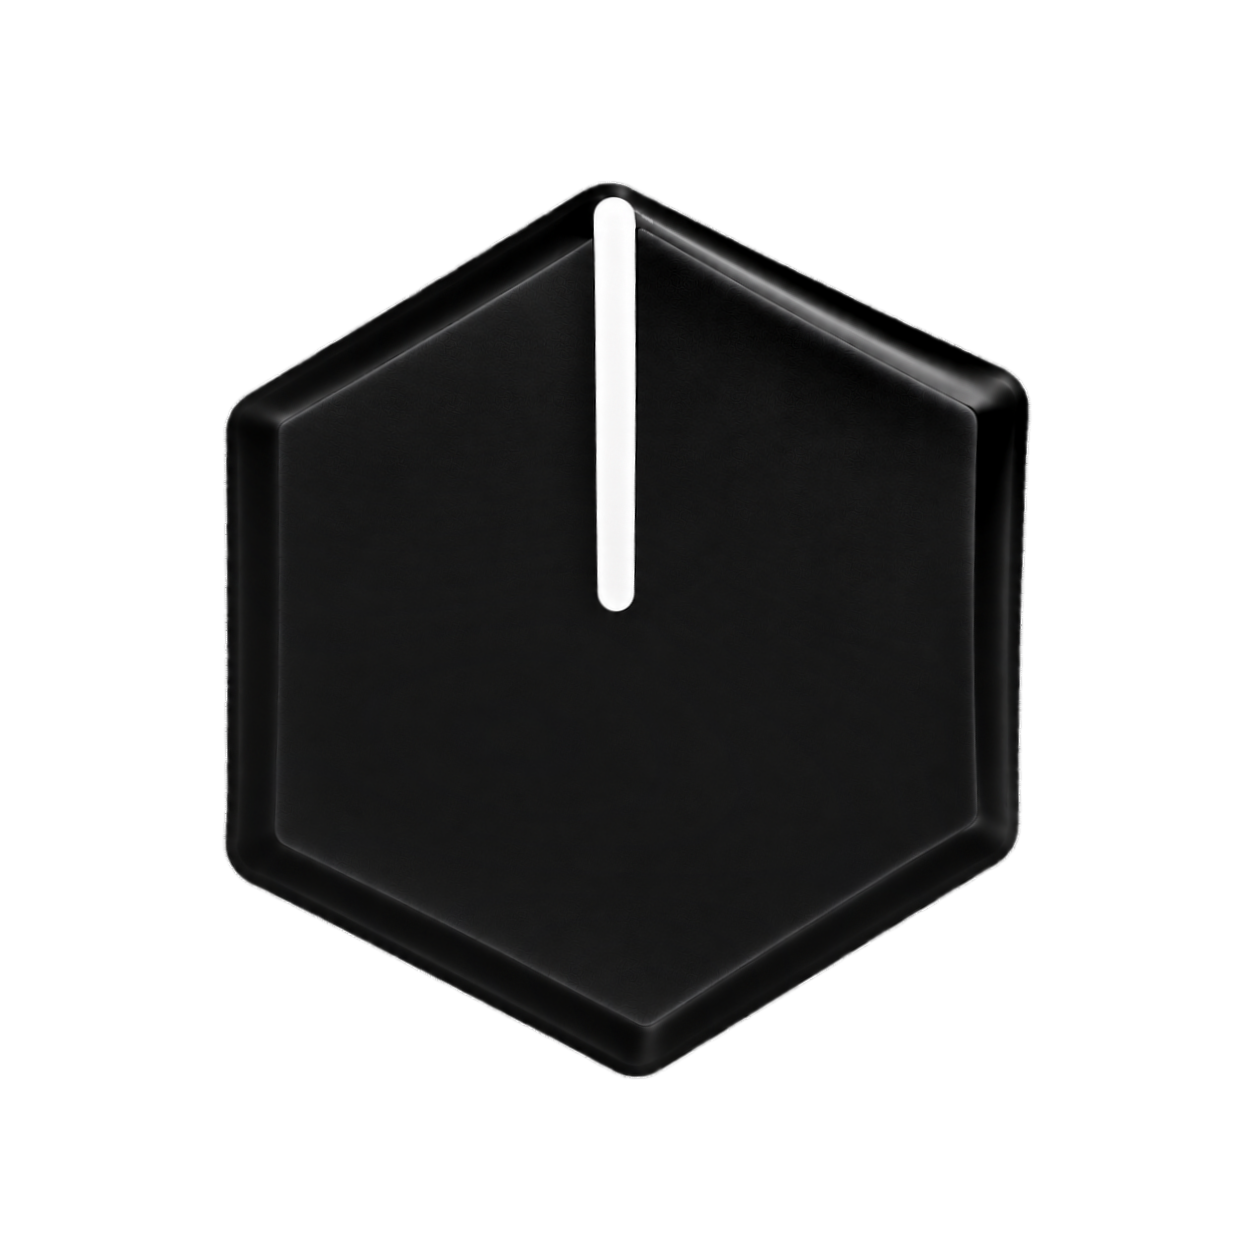
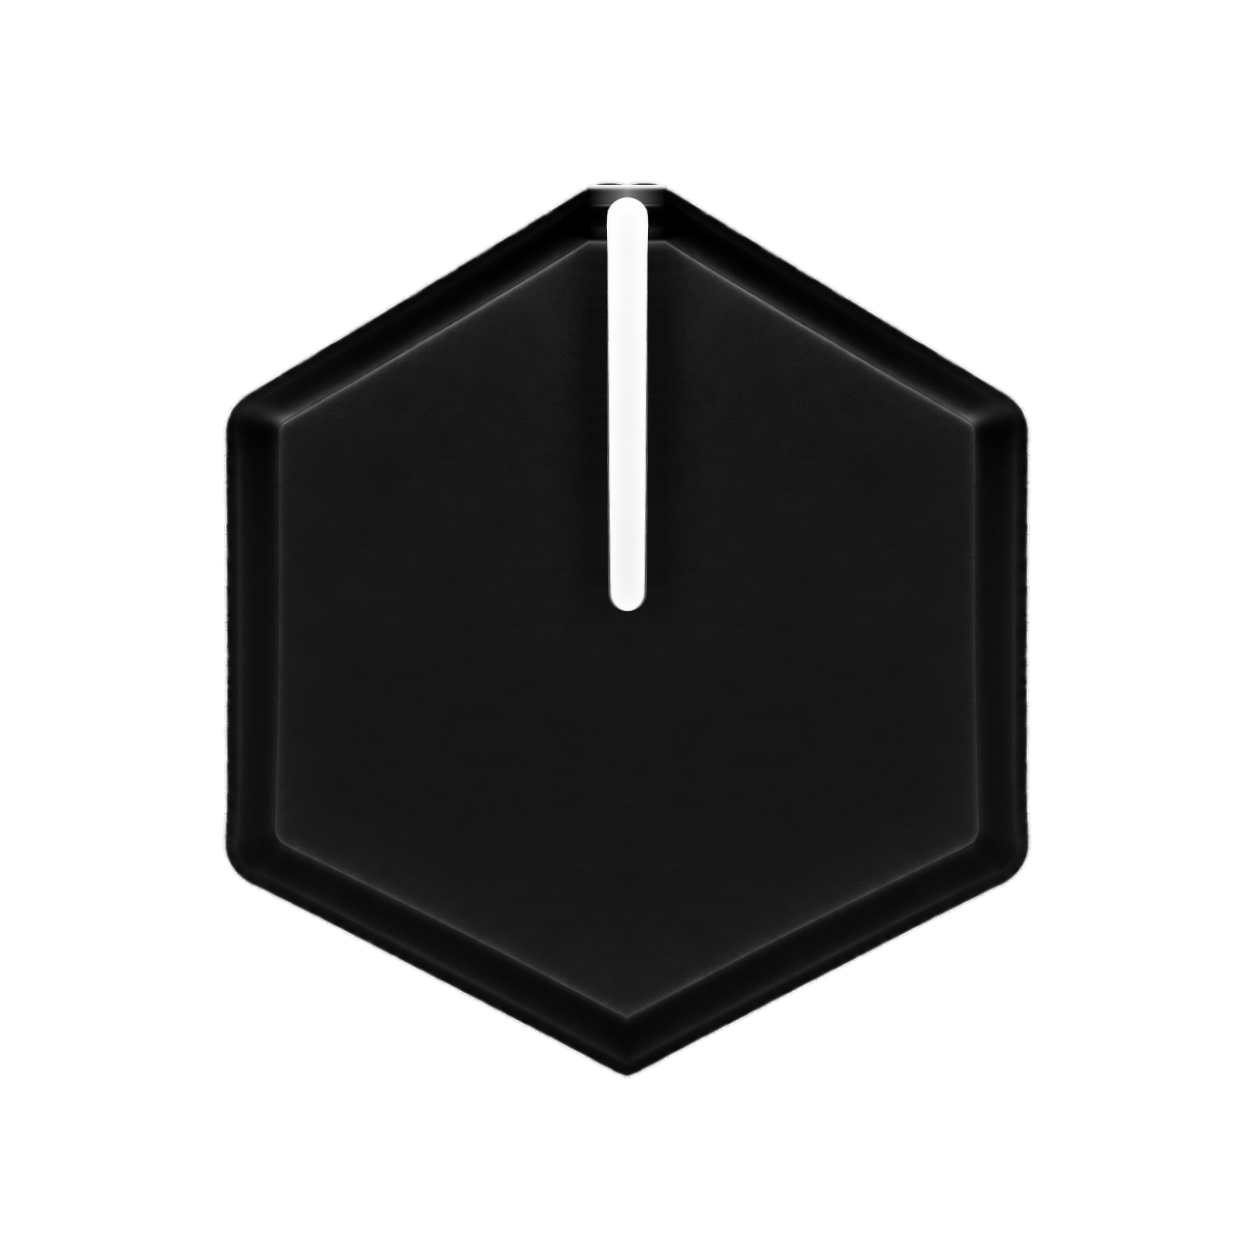
Use new knob images and clean up editor layout

diff --git a/source/PluginEditor.cpp b/source/PluginEditor.cpp
@@ -10,6 +10,8 @@ AmpPusherEditor::AmpPusherEditor (AmpPusherProcessor& p)
         addAndMakeVisible(knob);
     }
 
+    toneKnob.setMouseDragSensitivity(250);
+
     for (auto* label : {&driveLabel, &levelLabel, &toneLabel})
         addAndMakeVisible(label);
 
@@ -63,8 +65,8 @@ void AmpPusherEditor::resized()
     driveKnob.setBounds(bigKnobBounds.translated(-knobXGap, 0.f).toNearestInt());
     levelKnob.setBounds(bigKnobBounds.translated(knobXGap, 0.f).toNearestInt());
 
-    const auto smallKnobSize = boundsFWidth * 0.18f;
-    const auto smallKnobBounds = boundsF.withSizeKeepingCentre(smallKnobSize, smallKnobSize).withY(bigKnobBounds.getCentreY() + boundsFHeight * 0.11f);
+    const auto smallKnobSize = boundsFWidth * 0.185f;
+    const auto smallKnobBounds = boundsF.withSizeKeepingCentre(smallKnobSize, smallKnobSize).withY(bigKnobBounds.getCentreY() + bigKnobSize * 0.55f);
     toneKnob.setBounds(smallKnobBounds.toNearestInt());
 
     const auto labelHeight = boundsFHeight * 0.05f;
@@ -89,10 +91,7 @@ void AmpPusherEditor::resized()
     odModeLabel.setTransform(juce::AffineTransform::rotation(-0.174f, tapeCentre.x, tapeCentre.y));
 
     const auto switchSize = boundsFWidth * 0.225f;
-    const auto centreX = boundsFWidth * 0.15f;
-    const auto centreY = boundsFHeight * 0.725f;
-    const auto modeSwitchBounds = boundsF.withSize(switchSize, switchSize).withCentre({centreX, centreY});
-    odModeSwitch.setBounds(modeSwitchBounds.toNearestInt());
+    odModeSwitch.setBounds(boundsF.withSize(switchSize, switchSize).withCentre({boundsFWidth * 0.15f, boundsFHeight * 0.725f}).toNearestInt());
 
     const auto ledSize = boundsFWidth * 0.125f;
     bypassLED.setBounds(boundsF.withSize(ledSize, ledSize).withCentre({boundsF.getCentreX(), boundsFHeight * 0.085f}).toNearestInt());

diff --git a/source/PluginEditor.h b/source/PluginEditor.h
@@ -21,10 +21,10 @@ private:
     const int uiHeight {600};
 
     juce::Image pedalBoxImage {juce::ImageCache::getFromMemory(BinaryData::pedalBoxWithTape2_png, BinaryData::pedalBoxWithTape2_pngSize)};
-    juce::Image bigKnobBaseImage {juce::ImageCache::getFromMemory(BinaryData::bigKnobBase_png, BinaryData::bigKnobBase_pngSize)};
-    juce::Image bigKnobRotorImage {juce::ImageCache::getFromMemory(BinaryData::bigKnobRotator_png, BinaryData::bigKnobRotator_pngSize)};
+    juce::Image bigKnobBaseImage {juce::ImageCache::getFromMemory(BinaryData::bigKnobBase2_png, BinaryData::bigKnobBase2_pngSize)};
+    juce::Image bigKnobRotorImage {juce::ImageCache::getFromMemory(BinaryData::bigKnobRotator2_png, BinaryData::bigKnobRotator2_pngSize)};
     juce::Image smallKnobBaseImage {juce::ImageCache::getFromMemory(BinaryData::smallKnobBase_png, BinaryData::smallKnobBase_pngSize)};
-    juce::Image smallKnobRotorImage {juce::ImageCache::getFromMemory(BinaryData::smallKnobRotor_png, BinaryData::smallKnobRotor_pngSize)};
+    juce::Image smallKnobRotorImage {juce::ImageCache::getFromMemory(BinaryData::smallKnobRotor2_png, BinaryData::smallKnobRotor2_pngSize)};
     juce::Image switchUpImage {juce::ImageCache::getFromMemory(BinaryData::switchUP_png, BinaryData::switchUP_pngSize)};
     juce::Image switchDownImage {juce::ImageCache::getFromMemory(BinaryData::switchDOWN_png, BinaryData::switchDOWN_pngSize)};
     juce::Image footswitchDownImage {juce::ImageCache::getFromMemory(BinaryData::sw4_down_png, BinaryData::sw4_down_pngSize)};
